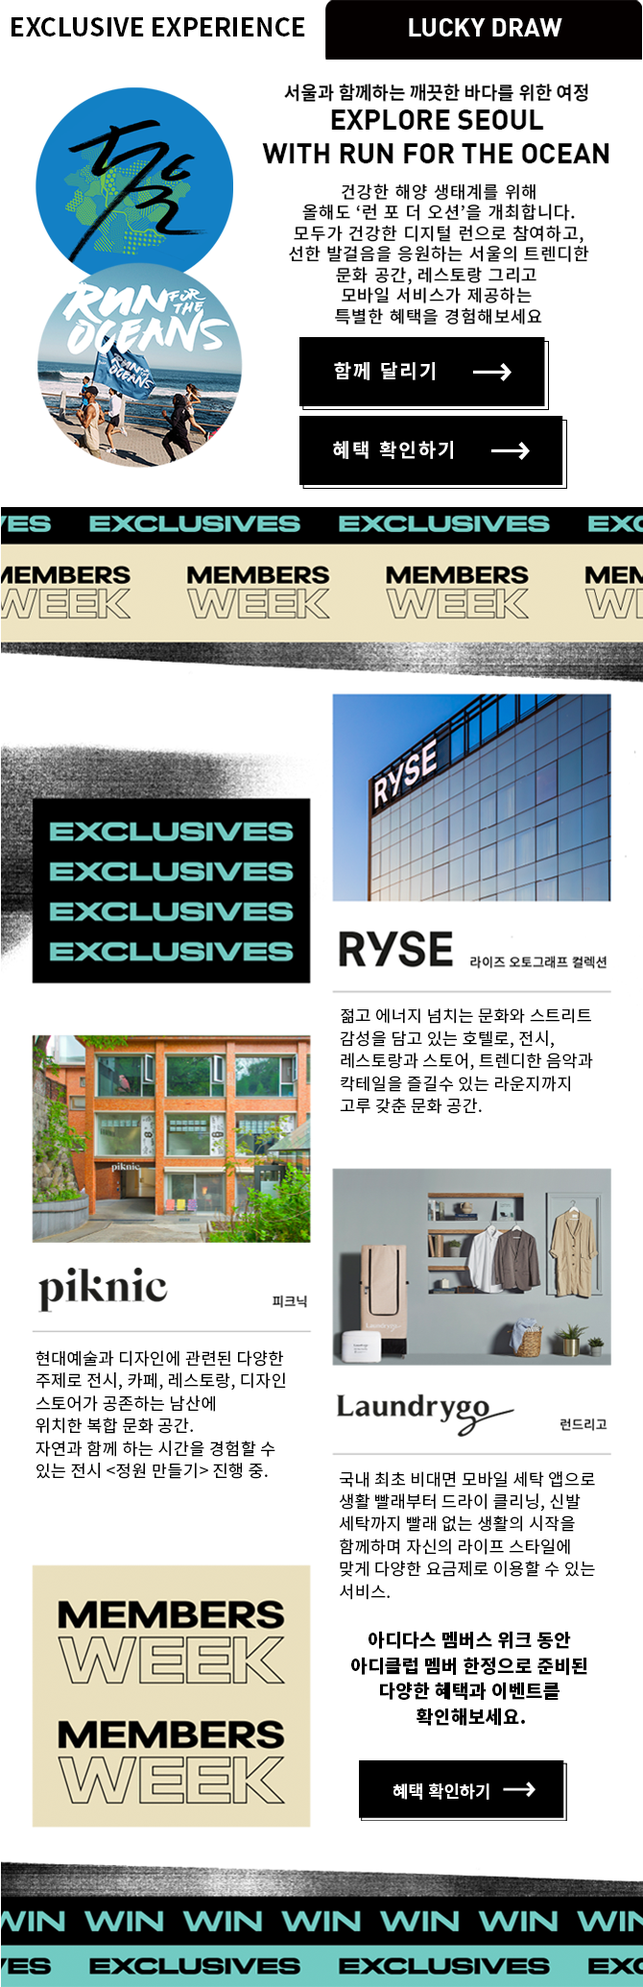
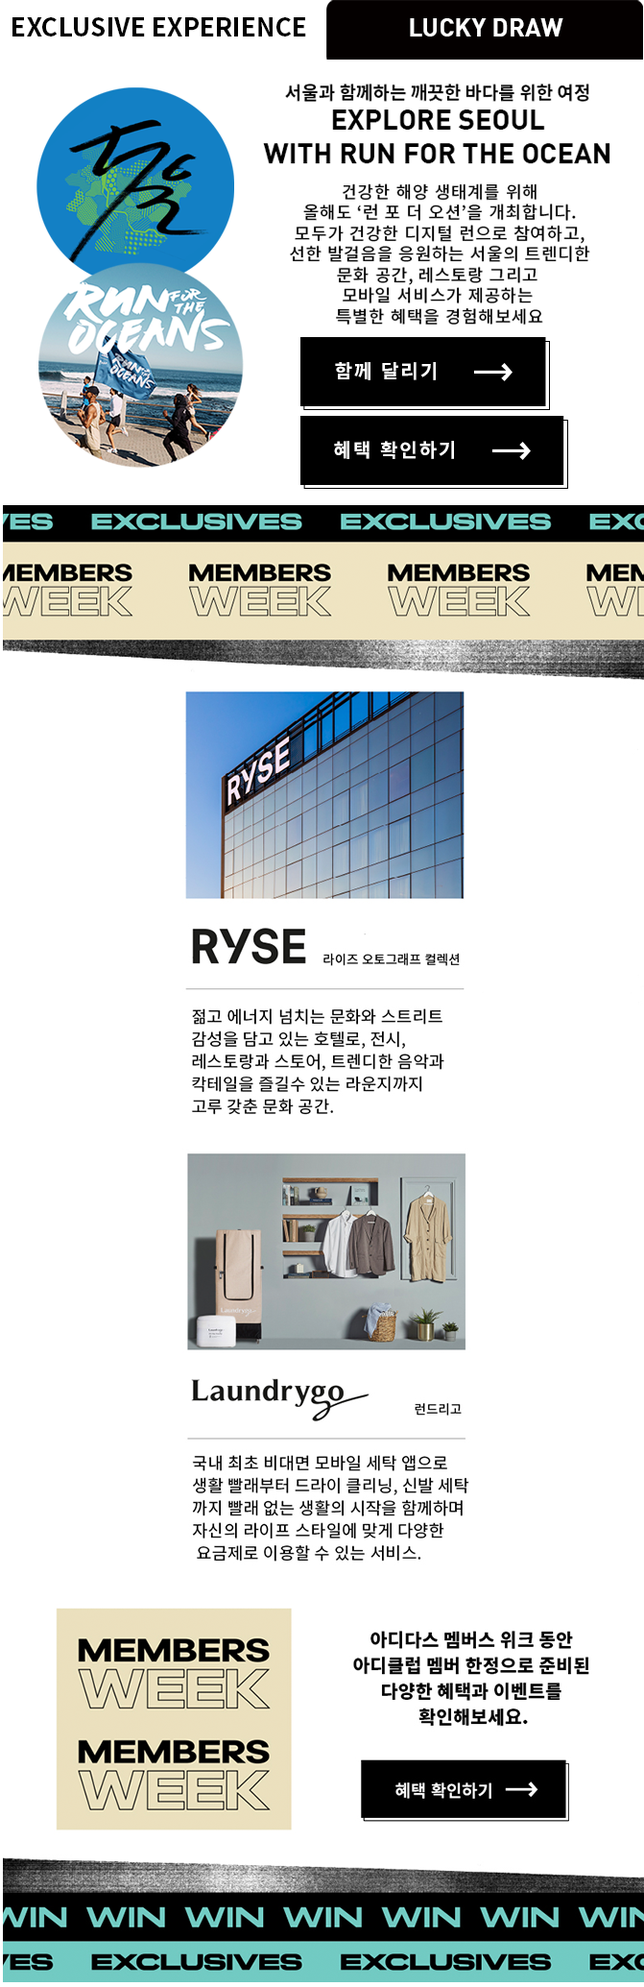
멤버스 이미지 수정

diff --git a/mobile/html/adidas/2021/event/membersweek/lc/build/index.html b/mobile/html/adidas/2021/event/membersweek/lc/build/index.html
@@ -33,7 +33,7 @@
  		<header include-html="/html/adidas/inc/header_.html"></header>
 
  		<div id="container">
-<style type="text/css">@media screen and (max-width: 320px){html{font-size:10px}}@media screen and (min-width: 800px){html{font-size:12px}}.pseudo-element{content:'';display:block}.ins-preview-wrapper{display:none !important}.not_scroll{overflow:hidden}.clearfix{display:block;clear:both;content:""}#members .all_cont{position:relative}#members .all_cont>img{width:100%}#members .cont1{position:relative}#members .cont1 .main_video video{position:relative;width:100%;z-index:1}#members .cont1 .main_txt{text-align:center;color:#111;padding:2.5rem 1rem}#members .cont1 .main_txt h1>img{width:90%}#members .cont1 .main_txt p{font:500 0.9rem/1.3rem 'NotoSansKR';letter-spacing:0;padding:1.4rem 0 0 0}#members .cont2 .cont2_bg>img{width:100%}#members .cont2 .cont2_bg .cont2_tab{position:relative}#members .cont2 .cont2_bg .cont2_tab .tab_btn{position:absolute;left:59%;top:11%;transform:translate(-50%, -50%);z-index:2;width:100%}#members .cont2 .cont2_bg .cont2_tab .tab_btn ul li{float:left;margin-right:0.5rem;width:41%}#members .cont2 .cont2_bg .cont2_tab .tab_btn ul li a{display:block;width:12.5rem;height:3rem;border-radius:5px}#members .cont2 .cont2_bg .cont2_tab .tab_btn ul .tab2{background:#111}@media screen and (min-width: 414px){#members .cont2 .cont2_bg .cont2_tab .tab_btn{left:61%;top:11%}}#members .cont2 .tab_con{position:relative}#members .cont2 .tab_con .tab__content{width:100%;z-index:0;display:none;position:relative}#members .cont2 .tab_con .tab__content.current{display:block;animation:fade-in 1s;animation-fill-mode:forwards;transition:0.5s;-webkit-transition:0.5s;-moz-transition:0.5s}#members .cont2 .tab_con .tab__content>img{width:100%}#members .cont2 .tab_con .tab1_btn{position:absolute;left:109%;top:30%;transform:translate(-50%, -50%);width:100%}#members .cont2 .tab_con .tab1_btn a{display:block;width:10rem;height:3rem}@media screen and (min-width: 414px){#members .cont2 .tab_con .tab1_btn{left:110.5%;top:30%}}#members .cont2 .tab_con .tab1_btn_1{position:absolute;top:30%}#members .cont2 .tab_con .tab1_btn_2{position:absolute;top:57%}#members .cont2 .tab_con .tab1_btn_3{position:absolute;top:84%}#members .cont2 .cont2_bot{position:relative}#members .cont2 .cont2_bot>img{width:100%}#members .cont2 .cont2_bot .cont2_bot_btn{position:absolute;left:107%;top:50%;transform:translate(-50%, -50%);width:100%}#members .cont2 .cont2_bot .cont2_bot_btn a{display:block;width:10rem;height:3rem}@media screen and (min-width: 414px){#members .cont2 .cont2_bot .cont2_bot_btn{left:109%}}#members .cont2 .cont2_bot .cont2_bot_btn_1{top:22%}#members .cont2 .cont2_bot .cont2_bot_btn_2{top:47%}#members .cont2 .cont2_bot .cont2_bot_btn_3{top:72%}#members .cont3 .cont3_bg{position:relative;background:#88c9c3;padding:1.6rem 0 1.6rem 0}#members .cont3 .cont3_bg .cont3_txt{text-align:center;padding:0 1rem}#members .cont3 .cont3_bg .cont3_txt span{font:600 1.1rem/1.4rem 'NotoSansKR';letter-spacing:0;display:block;padding-bottom:0.4rem}#members .cont3 .cont3_bg .cont3_txt h2>img{width:80%}#members .cont3 .cont3_bg .cont3_slider{padding:2rem 1rem 0 1rem}#members .cont3 .cont3_bg .cont3_slider .slider_box{width:60%;margin:0 auto}#members .cont3 .cont3_bg .cont3_slider .slider_box li{text-align:center;padding-bottom:4px}#members .cont3 .cont3_bg .cont3_slider .slider_box li .btn_default{margin:0 0 0 0}#members .cont3 .cont3_bg .cont3_slider .slider_box .btn_move .btn_default{margin:1.5rem 0 0 0}#members .cont3 .cont3_bg .cont3_slider .slider_box .slick-slide>img{width:100%;margin:0 auto}#members .cont3 .cont3_bg .cont3_slider .slider_box .slick-arrow{font-size:0;border:0}#members .cont3 .cont3_bg .cont3_slider .slider_box .slick-prev{position:absolute;left:-30.5%;top:31%;background:url("/images/adidas/2021/event/membersweek/lc/prev.png") center center no-repeat;width:27px;height:59px;z-index:3;background-size:70%;outline:none}#members .cont3 .cont3_bg .cont3_slider .slider_box .slick-next{position:absolute;right:-30.5%;top:31%;background:url("/images/adidas/2021/event/membersweek/lc/next.png") center center no-repeat;width:27px;height:59px;z-index:3;background-size:70%;outline:none}#members .cont4 .cont4_bg{position:relative;box-sizing:border-box;background:#88c9c3;padding:0 1.6rem}#members .cont4 .cont4_bg .cont4_tab{position:relative}#members .cont4 .cont4_bg .cont4_tab .tab_btn{position:absolute;left:52%;top:1.5%;transform:translate(-50%, -50%);z-index:2;width:100%}#members .cont4 .cont4_bg .cont4_tab .tab_btn ul li{float:left;margin-right:0.5rem;width:48%}#members .cont4 .cont4_bg .cont4_tab .tab_btn ul li a{display:block;width:13rem;height:2.5rem;border-radius:5px}#members .cont4 .cont4_bg .cont4_tab .tab_btn ul .tab2{background:#111}@media screen and (min-width: 414px){#members .cont4 .cont4_bg .cont4_tab .tab_btn{left:54%}}#members .cont4 .tab_con2{position:relative}#members .cont4 .tab_con2 .tab_content{width:100%;z-index:0;display:none;position:relative}#members .cont4 .tab_con2 .tab_content.current{display:block;animation:fade-in 1s;animation-fill-mode:forwards;transition:0.5s;-webkit-transition:0.5s;-moz-transition:0.5s}#members .cont4 .tab_con2 .tab_content>img{width:100%}#members .cont4 .tab_con2 .tab_content .tab3_btn{position:absolute;left:97%;top:19%;transform:translate(-50%, -50%);width:100%}#members .cont4 .tab_con2 .tab_content .tab3_btn a{display:block;width:11rem;height:3rem}#members .cont4 .tab_con2 .tab_content .tab1_btn_1{top:18.7%}#members .cont4 .tab_con2 .tab_content .tab1_btn_2{top:22.7%}#members .cont4 .tab_con2 .tab_content .tab1_btn_3{top:90%;left:105%}#members .cont4 .tab_con2 .tab_content .tab1_btn_3 a{width:10rem}#members .cont4 .tab_con2 .tab_content .tab1_btn_4{left:60%;top:23.3%}#members .cont4 .tab_con2 .tab_content .tab1_btn_4>img{width:70%}#members .cont4 .tab_con2 .tab_content .tab1_btn_5{top:42.8%;left:76%}#members .cont4 .tab_con2 .tab_content .tab1_btn_6{top:83%;left:84%}#members .cont6 .cont6_bg{padding:0.6rem 2.8rem 0 2.8rem;background:#88c9c3}#members .cont6 .cont6_bg .txt{text-align:center;color:#111;padding:1.3rem 0}#members .cont6 .cont6_bg .txt h4{font:600 1.5rem/1.5rem 'NotoSansKR';letter-spacing:0}#members .cont6 .cont6_bg .txt strong{display:block;font:900 2.5rem/2.5rem 'NotoSansKR';letter-spacing:0;padding:1rem 0 0.4rem 0}#members .cont6 .cont6_bg .txt p{font:600 1.1rem/1.3rem 'NotoSansKR';letter-spacing:0}
+<style type="text/css">@media screen and (max-width: 320px){html{font-size:10px}}@media screen and (min-width: 800px){html{font-size:12px}}.pseudo-element{content:'';display:block}.ins-preview-wrapper{display:none !important}.not_scroll{overflow:hidden}.clearfix{display:block;clear:both;content:""}#members .all_cont{position:relative}#members .all_cont>img{width:100%}#members .cont1{position:relative}#members .cont1 .main_video video{position:relative;width:100%;z-index:1}#members .cont1 .main_txt{text-align:center;color:#111;padding:2.5rem 1rem}#members .cont1 .main_txt h1>img{width:90%}#members .cont1 .main_txt p{font:500 0.9rem/1.3rem 'NotoSansKR';letter-spacing:0;padding:1.4rem 0 0 0}#members .cont2 .cont2_bg>img{width:100%}#members .cont2 .cont2_bg .cont2_tab{position:relative}#members .cont2 .cont2_bg .cont2_tab .tab_btn{position:absolute;left:59%;top:11%;transform:translate(-50%, -50%);z-index:2;width:100%}#members .cont2 .cont2_bg .cont2_tab .tab_btn ul li{float:left;margin-right:0.5rem;width:41%}#members .cont2 .cont2_bg .cont2_tab .tab_btn ul li a{display:block;width:12.5rem;height:3rem;border-radius:5px}#members .cont2 .cont2_bg .cont2_tab .tab_btn ul .tab2{background:#111}@media screen and (min-width: 414px){#members .cont2 .cont2_bg .cont2_tab .tab_btn{left:61%;top:11%}}#members .cont2 .tab_con{position:relative}#members .cont2 .tab_con .tab__content{width:100%;z-index:0;display:none;position:relative}#members .cont2 .tab_con .tab__content.current{display:block;animation:fade-in 1s;animation-fill-mode:forwards;transition:0.5s;-webkit-transition:0.5s;-moz-transition:0.5s}#members .cont2 .tab_con .tab__content>img{width:100%}#members .cont2 .tab_con .tab1_btn{position:absolute;left:109%;top:30%;transform:translate(-50%, -50%);width:100%}#members .cont2 .tab_con .tab1_btn a{display:block;width:10rem;height:3rem}@media screen and (min-width: 414px){#members .cont2 .tab_con .tab1_btn{left:110.5%;top:30%}}#members .cont2 .tab_con .tab1_btn_1{position:absolute;top:30%}#members .cont2 .tab_con .tab1_btn_2{position:absolute;top:57%}#members .cont2 .tab_con .tab1_btn_3{position:absolute;top:84%}#members .cont2 .cont2_bot{position:relative}#members .cont2 .cont2_bot>img{width:100%}#members .cont2 .cont2_bot .cont2_bot_btn{position:absolute;left:107%;top:50%;transform:translate(-50%, -50%);width:100%}#members .cont2 .cont2_bot .cont2_bot_btn a{display:block;width:10rem;height:3rem}@media screen and (min-width: 414px){#members .cont2 .cont2_bot .cont2_bot_btn{left:109%}}#members .cont2 .cont2_bot .cont2_bot_btn_1{top:22%}#members .cont2 .cont2_bot .cont2_bot_btn_2{top:47%}#members .cont2 .cont2_bot .cont2_bot_btn_3{top:72%}#members .cont3 .cont3_bg{position:relative;background:#88c9c3;padding:1.6rem 0 1.6rem 0}#members .cont3 .cont3_bg .cont3_txt{text-align:center;padding:0 1rem}#members .cont3 .cont3_bg .cont3_txt span{font:600 1.1rem/1.4rem 'NotoSansKR';letter-spacing:0;display:block;padding-bottom:0.4rem}#members .cont3 .cont3_bg .cont3_txt h2>img{width:80%}#members .cont3 .cont3_bg .cont3_slider{padding:2rem 1rem 0 1rem}#members .cont3 .cont3_bg .cont3_slider .slider_box{width:60%;margin:0 auto}#members .cont3 .cont3_bg .cont3_slider .slider_box li{text-align:center;padding-bottom:4px}#members .cont3 .cont3_bg .cont3_slider .slider_box li .btn_default{margin:0 0 0 0}#members .cont3 .cont3_bg .cont3_slider .slider_box .btn_move .btn_default{margin:1.5rem 0 0 0}#members .cont3 .cont3_bg .cont3_slider .slider_box .slick-slide>img{width:100%;margin:0 auto}#members .cont3 .cont3_bg .cont3_slider .slider_box .slick-arrow{font-size:0;border:0}#members .cont3 .cont3_bg .cont3_slider .slider_box .slick-prev{position:absolute;left:-30.5%;top:31%;background:url("/images/adidas/2021/event/membersweek/lc/prev.png") center center no-repeat;width:27px;height:59px;z-index:3;background-size:70%;outline:none}#members .cont3 .cont3_bg .cont3_slider .slider_box .slick-next{position:absolute;right:-30.5%;top:31%;background:url("/images/adidas/2021/event/membersweek/lc/next.png") center center no-repeat;width:27px;height:59px;z-index:3;background-size:70%;outline:none}#members .cont4 .cont4_bg{position:relative;box-sizing:border-box;background:#88c9c3;padding:0 1.6rem}#members .cont4 .cont4_bg .cont4_tab{position:relative}#members .cont4 .cont4_bg .cont4_tab .tab_btn{position:absolute;left:52%;top:1.5%;transform:translate(-50%, -50%);z-index:2;width:100%}#members .cont4 .cont4_bg .cont4_tab .tab_btn ul li{float:left;margin-right:0.5rem;width:48%}#members .cont4 .cont4_bg .cont4_tab .tab_btn ul li a{display:block;width:13rem;height:2.5rem;border-radius:5px}#members .cont4 .cont4_bg .cont4_tab .tab_btn ul .tab2{background:#111}@media screen and (min-width: 414px){#members .cont4 .cont4_bg .cont4_tab .tab_btn{left:54%}}#members .cont4 .tab_con2{position:relative}#members .cont4 .tab_con2 .tab_content{width:100%;z-index:0;display:none;position:relative}#members .cont4 .tab_con2 .tab_content.current{display:block;animation:fade-in 1s;animation-fill-mode:forwards;transition:0.5s;-webkit-transition:0.5s;-moz-transition:0.5s}#members .cont4 .tab_con2 .tab_content>img{width:100%}#members .cont4 .tab_con2 .tab_content .tab3_btn{position:absolute;left:97%;top:19%;transform:translate(-50%, -50%);width:100%}#members .cont4 .tab_con2 .tab_content .tab3_btn a{display:block;width:11rem;height:3rem}#members .cont4 .tab_con2 .tab_content .tab1_btn_1{top:18.7%}#members .cont4 .tab_con2 .tab_content .tab1_btn_2{top:22.7%}#members .cont4 .tab_con2 .tab_content .tab1_btn_3{top:90%;left:105%}#members .cont4 .tab_con2 .tab_content .tab1_btn_3 a{width:9rem}#members .cont4 .tab_con2 .tab_content .tab1_btn_4{left:60%;top:23.3%}#members .cont4 .tab_con2 .tab_content .tab1_btn_4>img{width:70%}#members .cont4 .tab_con2 .tab_content .tab1_btn_5{top:42.8%;left:76%}#members .cont4 .tab_con2 .tab_content .tab1_btn_6{top:83%;left:84%}#members .cont6 .cont6_bg{padding:0.6rem 2.8rem 0 2.8rem;background:#88c9c3}#members .cont6 .cont6_bg .txt{text-align:center;color:#111;padding:1.3rem 0}#members .cont6 .cont6_bg .txt h4{font:600 1.5rem/1.5rem 'NotoSansKR';letter-spacing:0}#members .cont6 .cont6_bg .txt strong{display:block;font:900 2.5rem/2.5rem 'NotoSansKR';letter-spacing:0;padding:1rem 0 0.4rem 0}#members .cont6 .cont6_bg .txt p{font:600 1.1rem/1.3rem 'NotoSansKR';letter-spacing:0}
 </style>
 			<link rel="stylesheet" type="text/css" href="/css/slick.css" />
 			

diff --git a/mobile/html/adidas/pn/MEMBERSWEEK.html b/mobile/html/adidas/pn/MEMBERSWEEK.html
@@ -1,5 +1,5 @@
 <div id="container">
-    <style type="text/css">@media screen and (max-width: 320px){html{font-size:10px}}@media screen and (min-width: 800px){html{font-size:12px}}.pseudo-element{content:'';display:block}.ins-preview-wrapper{display:none !important}.not_scroll{overflow:hidden}.clearfix{display:block;clear:both;content:""}#members .all_cont{position:relative}#members .all_cont>img{width:100%}#members .cont1{position:relative}#members .cont1 .main_video video{position:relative;width:100%;z-index:1}#members .cont1 .main_txt{text-align:center;color:#111;padding:2.5rem 1rem}#members .cont1 .main_txt h1>img{width:90%}#members .cont1 .main_txt p{font:500 0.9rem/1.3rem 'NotoSansKR';letter-spacing:0;padding:1.4rem 0 0 0}#members .cont2 .cont2_bg>img{width:100%}#members .cont2 .cont2_bg .cont2_tab{position:relative}#members .cont2 .cont2_bg .cont2_tab .tab_btn{position:absolute;left:59%;top:11%;transform:translate(-50%, -50%);z-index:2;width:100%}#members .cont2 .cont2_bg .cont2_tab .tab_btn ul li{float:left;margin-right:0.5rem;width:41%}#members .cont2 .cont2_bg .cont2_tab .tab_btn ul li a{display:block;width:12.5rem;height:3rem;border-radius:5px}#members .cont2 .cont2_bg .cont2_tab .tab_btn ul .tab2{background:#111}@media screen and (min-width: 414px){#members .cont2 .cont2_bg .cont2_tab .tab_btn{left:61%;top:11%}}#members .cont2 .tab_con{position:relative}#members .cont2 .tab_con .tab__content{width:100%;z-index:0;display:none;position:relative}#members .cont2 .tab_con .tab__content.current{display:block;animation:fade-in 1s;animation-fill-mode:forwards;transition:0.5s;-webkit-transition:0.5s;-moz-transition:0.5s}#members .cont2 .tab_con .tab__content>img{width:100%}#members .cont2 .tab_con .tab1_btn{position:absolute;left:109%;top:30%;transform:translate(-50%, -50%);width:100%}#members .cont2 .tab_con .tab1_btn a{display:block;width:10rem;height:3rem}@media screen and (min-width: 414px){#members .cont2 .tab_con .tab1_btn{left:110.5%;top:30%}}#members .cont2 .tab_con .tab1_btn_1{position:absolute;top:30%}#members .cont2 .tab_con .tab1_btn_2{position:absolute;top:57%}#members .cont2 .tab_con .tab1_btn_3{position:absolute;top:84%}#members .cont2 .cont2_bot{position:relative}#members .cont2 .cont2_bot>img{width:100%}#members .cont2 .cont2_bot .cont2_bot_btn{position:absolute;left:107%;top:50%;transform:translate(-50%, -50%);width:100%}#members .cont2 .cont2_bot .cont2_bot_btn a{display:block;width:10rem;height:3rem}@media screen and (min-width: 414px){#members .cont2 .cont2_bot .cont2_bot_btn{left:109%}}#members .cont2 .cont2_bot .cont2_bot_btn_1{top:22%}#members .cont2 .cont2_bot .cont2_bot_btn_2{top:47%}#members .cont2 .cont2_bot .cont2_bot_btn_3{top:72%}#members .cont3 .cont3_bg{position:relative;background:#88c9c3;padding:1.6rem 0 1.6rem 0}#members .cont3 .cont3_bg .cont3_txt{text-align:center;padding:0 1rem}#members .cont3 .cont3_bg .cont3_txt span{font:600 1.1rem/1.4rem 'NotoSansKR';letter-spacing:0;display:block;padding-bottom:0.4rem}#members .cont3 .cont3_bg .cont3_txt h2>img{width:80%}#members .cont3 .cont3_bg .cont3_slider{padding:2rem 1rem 0 1rem}#members .cont3 .cont3_bg .cont3_slider .slider_box{width:60%;margin:0 auto}#members .cont3 .cont3_bg .cont3_slider .slider_box li{text-align:center;padding-bottom:4px}#members .cont3 .cont3_bg .cont3_slider .slider_box li .btn_default{margin:0 0 0 0}#members .cont3 .cont3_bg .cont3_slider .slider_box .btn_move .btn_default{margin:1.5rem 0 0 0}#members .cont3 .cont3_bg .cont3_slider .slider_box .slick-slide>img{width:100%;margin:0 auto}#members .cont3 .cont3_bg .cont3_slider .slider_box .slick-arrow{font-size:0;border:0}#members .cont3 .cont3_bg .cont3_slider .slider_box .slick-prev{position:absolute;left:-30.5%;top:31%;background:url("/images/adidas/2021/event/membersweek/lc/prev.png") center center no-repeat;width:27px;height:59px;z-index:3;background-size:70%;outline:none}#members .cont3 .cont3_bg .cont3_slider .slider_box .slick-next{position:absolute;right:-30.5%;top:31%;background:url("/images/adidas/2021/event/membersweek/lc/next.png") center center no-repeat;width:27px;height:59px;z-index:3;background-size:70%;outline:none}#members .cont4 .cont4_bg{position:relative;box-sizing:border-box;background:#88c9c3;padding:0 1.6rem}#members .cont4 .cont4_bg .cont4_tab{position:relative}#members .cont4 .cont4_bg .cont4_tab .tab_btn{position:absolute;left:52%;top:1.5%;transform:translate(-50%, -50%);z-index:2;width:100%}#members .cont4 .cont4_bg .cont4_tab .tab_btn ul li{float:left;margin-right:0.5rem;width:48%}#members .cont4 .cont4_bg .cont4_tab .tab_btn ul li a{display:block;width:13rem;height:2.5rem;border-radius:5px}#members .cont4 .cont4_bg .cont4_tab .tab_btn ul .tab2{background:#111}@media screen and (min-width: 414px){#members .cont4 .cont4_bg .cont4_tab .tab_btn{left:54%}}#members .cont4 .tab_con2{position:relative}#members .cont4 .tab_con2 .tab_content{width:100%;z-index:0;display:none;position:relative}#members .cont4 .tab_con2 .tab_content.current{display:block;animation:fade-in 1s;animation-fill-mode:forwards;transition:0.5s;-webkit-transition:0.5s;-moz-transition:0.5s}#members .cont4 .tab_con2 .tab_content>img{width:100%}#members .cont4 .tab_con2 .tab_content .tab3_btn{position:absolute;left:97%;top:19%;transform:translate(-50%, -50%);width:100%}#members .cont4 .tab_con2 .tab_content .tab3_btn a{display:block;width:11rem;height:3rem}#members .cont4 .tab_con2 .tab_content .tab1_btn_1{top:18.7%}#members .cont4 .tab_con2 .tab_content .tab1_btn_2{top:22.7%}#members .cont4 .tab_con2 .tab_content .tab1_btn_3{top:90%;left:105%}#members .cont4 .tab_con2 .tab_content .tab1_btn_3 a{width:10rem}#members .cont4 .tab_con2 .tab_content .tab1_btn_4{left:60%;top:23.3%}#members .cont4 .tab_con2 .tab_content .tab1_btn_4>img{width:70%}#members .cont4 .tab_con2 .tab_content .tab1_btn_5{top:42.8%;left:76%}#members .cont4 .tab_con2 .tab_content .tab1_btn_6{top:83%;left:84%}#members .cont6 .cont6_bg{padding:0.6rem 2.8rem 0 2.8rem;background:#88c9c3}#members .cont6 .cont6_bg .txt{text-align:center;color:#111;padding:1.3rem 0}#members .cont6 .cont6_bg .txt h4{font:600 1.5rem/1.5rem 'NotoSansKR';letter-spacing:0}#members .cont6 .cont6_bg .txt strong{display:block;font:900 2.5rem/2.5rem 'NotoSansKR';letter-spacing:0;padding:1rem 0 0.4rem 0}#members .cont6 .cont6_bg .txt p{font:600 1.1rem/1.3rem 'NotoSansKR';letter-spacing:0}
+    <style type="text/css">@media screen and (max-width: 320px){html{font-size:10px}}@media screen and (min-width: 800px){html{font-size:12px}}.pseudo-element{content:'';display:block}.ins-preview-wrapper{display:none !important}.not_scroll{overflow:hidden}.clearfix{display:block;clear:both;content:""}#members .all_cont{position:relative}#members .all_cont>img{width:100%}#members .cont1{position:relative}#members .cont1 .main_video video{position:relative;width:100%;z-index:1}#members .cont1 .main_txt{text-align:center;color:#111;padding:2.5rem 1rem}#members .cont1 .main_txt h1>img{width:90%}#members .cont1 .main_txt p{font:500 0.9rem/1.3rem 'NotoSansKR';letter-spacing:0;padding:1.4rem 0 0 0}#members .cont2 .cont2_bg>img{width:100%}#members .cont2 .cont2_bg .cont2_tab{position:relative}#members .cont2 .cont2_bg .cont2_tab .tab_btn{position:absolute;left:59%;top:11%;transform:translate(-50%, -50%);z-index:2;width:100%}#members .cont2 .cont2_bg .cont2_tab .tab_btn ul li{float:left;margin-right:0.5rem;width:41%}#members .cont2 .cont2_bg .cont2_tab .tab_btn ul li a{display:block;width:12.5rem;height:3rem;border-radius:5px}#members .cont2 .cont2_bg .cont2_tab .tab_btn ul .tab2{background:#111}@media screen and (min-width: 414px){#members .cont2 .cont2_bg .cont2_tab .tab_btn{left:61%;top:11%}}#members .cont2 .tab_con{position:relative}#members .cont2 .tab_con .tab__content{width:100%;z-index:0;display:none;position:relative}#members .cont2 .tab_con .tab__content.current{display:block;animation:fade-in 1s;animation-fill-mode:forwards;transition:0.5s;-webkit-transition:0.5s;-moz-transition:0.5s}#members .cont2 .tab_con .tab__content>img{width:100%}#members .cont2 .tab_con .tab1_btn{position:absolute;left:109%;top:30%;transform:translate(-50%, -50%);width:100%}#members .cont2 .tab_con .tab1_btn a{display:block;width:10rem;height:3rem}@media screen and (min-width: 414px){#members .cont2 .tab_con .tab1_btn{left:110.5%;top:30%}}#members .cont2 .tab_con .tab1_btn_1{position:absolute;top:30%}#members .cont2 .tab_con .tab1_btn_2{position:absolute;top:57%}#members .cont2 .tab_con .tab1_btn_3{position:absolute;top:84%}#members .cont2 .cont2_bot{position:relative}#members .cont2 .cont2_bot>img{width:100%}#members .cont2 .cont2_bot .cont2_bot_btn{position:absolute;left:107%;top:50%;transform:translate(-50%, -50%);width:100%}#members .cont2 .cont2_bot .cont2_bot_btn a{display:block;width:10rem;height:3rem}@media screen and (min-width: 414px){#members .cont2 .cont2_bot .cont2_bot_btn{left:109%}}#members .cont2 .cont2_bot .cont2_bot_btn_1{top:22%}#members .cont2 .cont2_bot .cont2_bot_btn_2{top:47%}#members .cont2 .cont2_bot .cont2_bot_btn_3{top:72%}#members .cont3 .cont3_bg{position:relative;background:#88c9c3;padding:1.6rem 0 1.6rem 0}#members .cont3 .cont3_bg .cont3_txt{text-align:center;padding:0 1rem}#members .cont3 .cont3_bg .cont3_txt span{font:600 1.1rem/1.4rem 'NotoSansKR';letter-spacing:0;display:block;padding-bottom:0.4rem}#members .cont3 .cont3_bg .cont3_txt h2>img{width:80%}#members .cont3 .cont3_bg .cont3_slider{padding:2rem 1rem 0 1rem}#members .cont3 .cont3_bg .cont3_slider .slider_box{width:60%;margin:0 auto}#members .cont3 .cont3_bg .cont3_slider .slider_box li{text-align:center;padding-bottom:4px}#members .cont3 .cont3_bg .cont3_slider .slider_box li .btn_default{margin:0 0 0 0}#members .cont3 .cont3_bg .cont3_slider .slider_box .btn_move .btn_default{margin:1.5rem 0 0 0}#members .cont3 .cont3_bg .cont3_slider .slider_box .slick-slide>img{width:100%;margin:0 auto}#members .cont3 .cont3_bg .cont3_slider .slider_box .slick-arrow{font-size:0;border:0}#members .cont3 .cont3_bg .cont3_slider .slider_box .slick-prev{position:absolute;left:-30.5%;top:31%;background:url("/images/adidas/2021/event/membersweek/lc/prev.png") center center no-repeat;width:27px;height:59px;z-index:3;background-size:70%;outline:none}#members .cont3 .cont3_bg .cont3_slider .slider_box .slick-next{position:absolute;right:-30.5%;top:31%;background:url("/images/adidas/2021/event/membersweek/lc/next.png") center center no-repeat;width:27px;height:59px;z-index:3;background-size:70%;outline:none}#members .cont4 .cont4_bg{position:relative;box-sizing:border-box;background:#88c9c3;padding:0 1.6rem}#members .cont4 .cont4_bg .cont4_tab{position:relative}#members .cont4 .cont4_bg .cont4_tab .tab_btn{position:absolute;left:52%;top:1.5%;transform:translate(-50%, -50%);z-index:2;width:100%}#members .cont4 .cont4_bg .cont4_tab .tab_btn ul li{float:left;margin-right:0.5rem;width:48%}#members .cont4 .cont4_bg .cont4_tab .tab_btn ul li a{display:block;width:13rem;height:2.5rem;border-radius:5px}#members .cont4 .cont4_bg .cont4_tab .tab_btn ul .tab2{background:#111}@media screen and (min-width: 414px){#members .cont4 .cont4_bg .cont4_tab .tab_btn{left:54%}}#members .cont4 .tab_con2{position:relative}#members .cont4 .tab_con2 .tab_content{width:100%;z-index:0;display:none;position:relative}#members .cont4 .tab_con2 .tab_content.current{display:block;animation:fade-in 1s;animation-fill-mode:forwards;transition:0.5s;-webkit-transition:0.5s;-moz-transition:0.5s}#members .cont4 .tab_con2 .tab_content>img{width:100%}#members .cont4 .tab_con2 .tab_content .tab3_btn{position:absolute;left:97%;top:19%;transform:translate(-50%, -50%);width:100%}#members .cont4 .tab_con2 .tab_content .tab3_btn a{display:block;width:11rem;height:3rem}#members .cont4 .tab_con2 .tab_content .tab1_btn_1{top:18.7%}#members .cont4 .tab_con2 .tab_content .tab1_btn_2{top:22.7%}#members .cont4 .tab_con2 .tab_content .tab1_btn_3{top:90%;left:105%}#members .cont4 .tab_con2 .tab_content .tab1_btn_3 a{width:9rem}#members .cont4 .tab_con2 .tab_content .tab1_btn_4{left:60%;top:23.3%}#members .cont4 .tab_con2 .tab_content .tab1_btn_4>img{width:70%}#members .cont4 .tab_con2 .tab_content .tab1_btn_5{top:42.8%;left:76%}#members .cont4 .tab_con2 .tab_content .tab1_btn_6{top:83%;left:84%}#members .cont6 .cont6_bg{padding:0.6rem 2.8rem 0 2.8rem;background:#88c9c3}#members .cont6 .cont6_bg .txt{text-align:center;color:#111;padding:1.3rem 0}#members .cont6 .cont6_bg .txt h4{font:600 1.5rem/1.5rem 'NotoSansKR';letter-spacing:0}#members .cont6 .cont6_bg .txt strong{display:block;font:900 2.5rem/2.5rem 'NotoSansKR';letter-spacing:0;padding:1rem 0 0.4rem 0}#members .cont6 .cont6_bg .txt p{font:600 1.1rem/1.3rem 'NotoSansKR';letter-spacing:0}
     </style>
                 <link rel="stylesheet" type="text/css" href="/css/slick.css" />
                 

diff --git a/mobile/html/adidas/2021/event/membersweek/lc/index.scss b/mobile/html/adidas/2021/event/membersweek/lc/index.scss
@@ -326,7 +326,7 @@
           top:90%;
           left:105%;
           a{
-            width:10rem;
+            width:9rem;
           }
         }  
         .tab1_btn_4{
